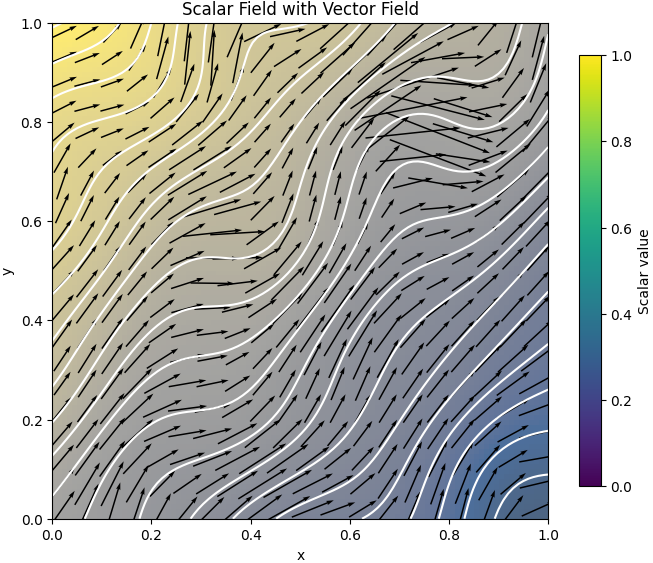
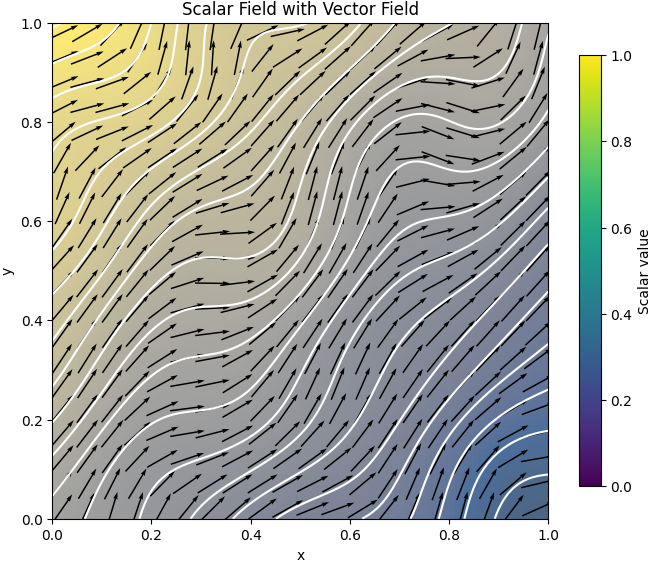
JMB: add renormalization option for vectors

diff --git a/src/util_renormalization.py b/src/util_renormalization.py
@@ -1,0 +1,42 @@
+import numpy as np
+
+def renormalize_vector(ru,rv,u,v):
+  """
+  Renormalize vectors to original norm
+
+  Args:
+  ru,rv : components of the transformed vector
+  u,v   : components of the original vector
+  dx : perturbation along x coordinate
+  dy : perturbation along y coordinate
+
+  Returns:
+  ru,rv are modified in place
+  """
+
+  factor = np.sqrt ( ( u**2 + v**2 ) / ( ru**2 + rv**2 ) )
+  ru[:,:] = ru[:,:] * factor
+  rv[:,:] = rv[:,:] * factor
+
+  return
+
+def renormalize_tensor(rtxx,rtxy,rtyy,txx,txy,tyy):
+  """
+  Renormalize tensors to have the same eigenvalues as original tensor
+
+  Args:
+  rtxx,rtxy,rtyy : components of the transformed tensor
+  txx,txy,tyy    : components of the original tensor
+
+  Returns:
+  rtxx,rtxy,rtyy are modified in place
+  """
+
+  # Apply transformation to input tensor
+  #rtxx[:,:] = 
+  #rtxy[:,:] = 
+  #rtyy[:,:] = 
+  # Still to be done
+
+  return
+
